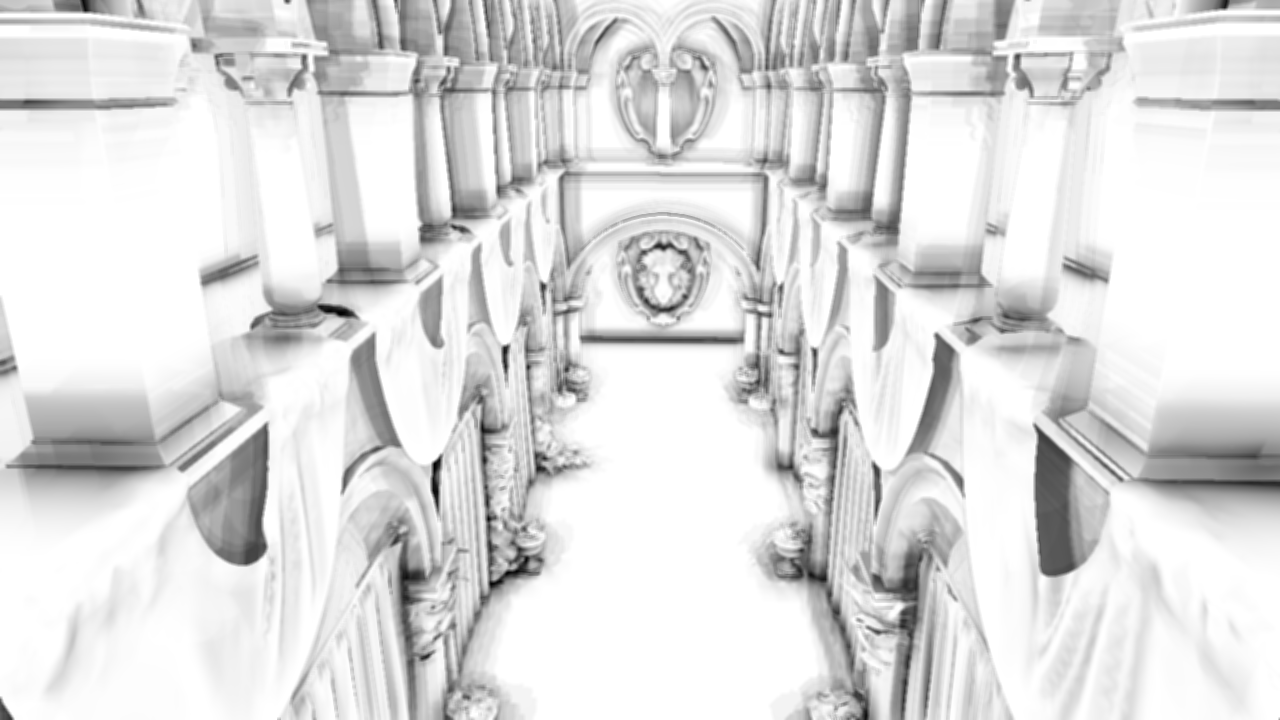
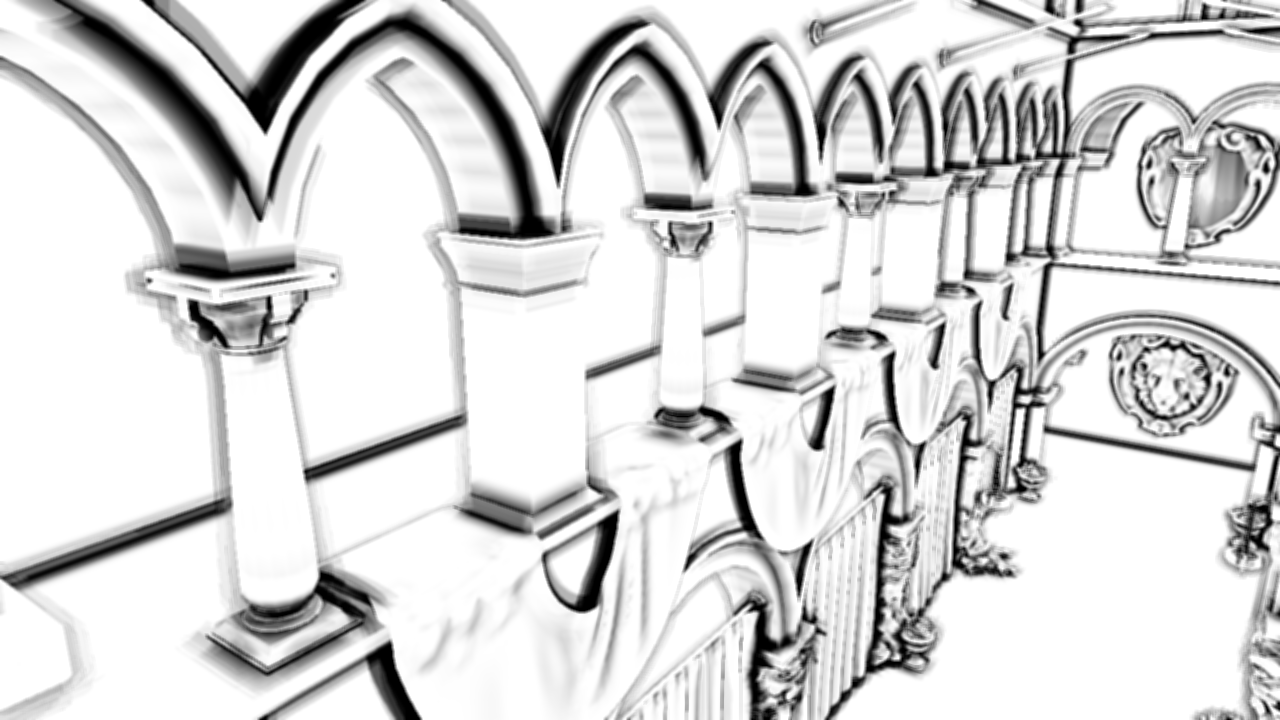
Fixed the Toon shading, update pics

diff --git a/README.md b/README.md
@@ -3,7 +3,7 @@
 ![Alt text](SSAOC.png "SSAO")
 Screen space ambient occlusion
 
-![Alt text](ToneC.png "Toon Shading")
+![Alt text](ToonC.png "Toon Shading")
 Toon Shading
 
 ![Alt text](totalc.png "Total")
